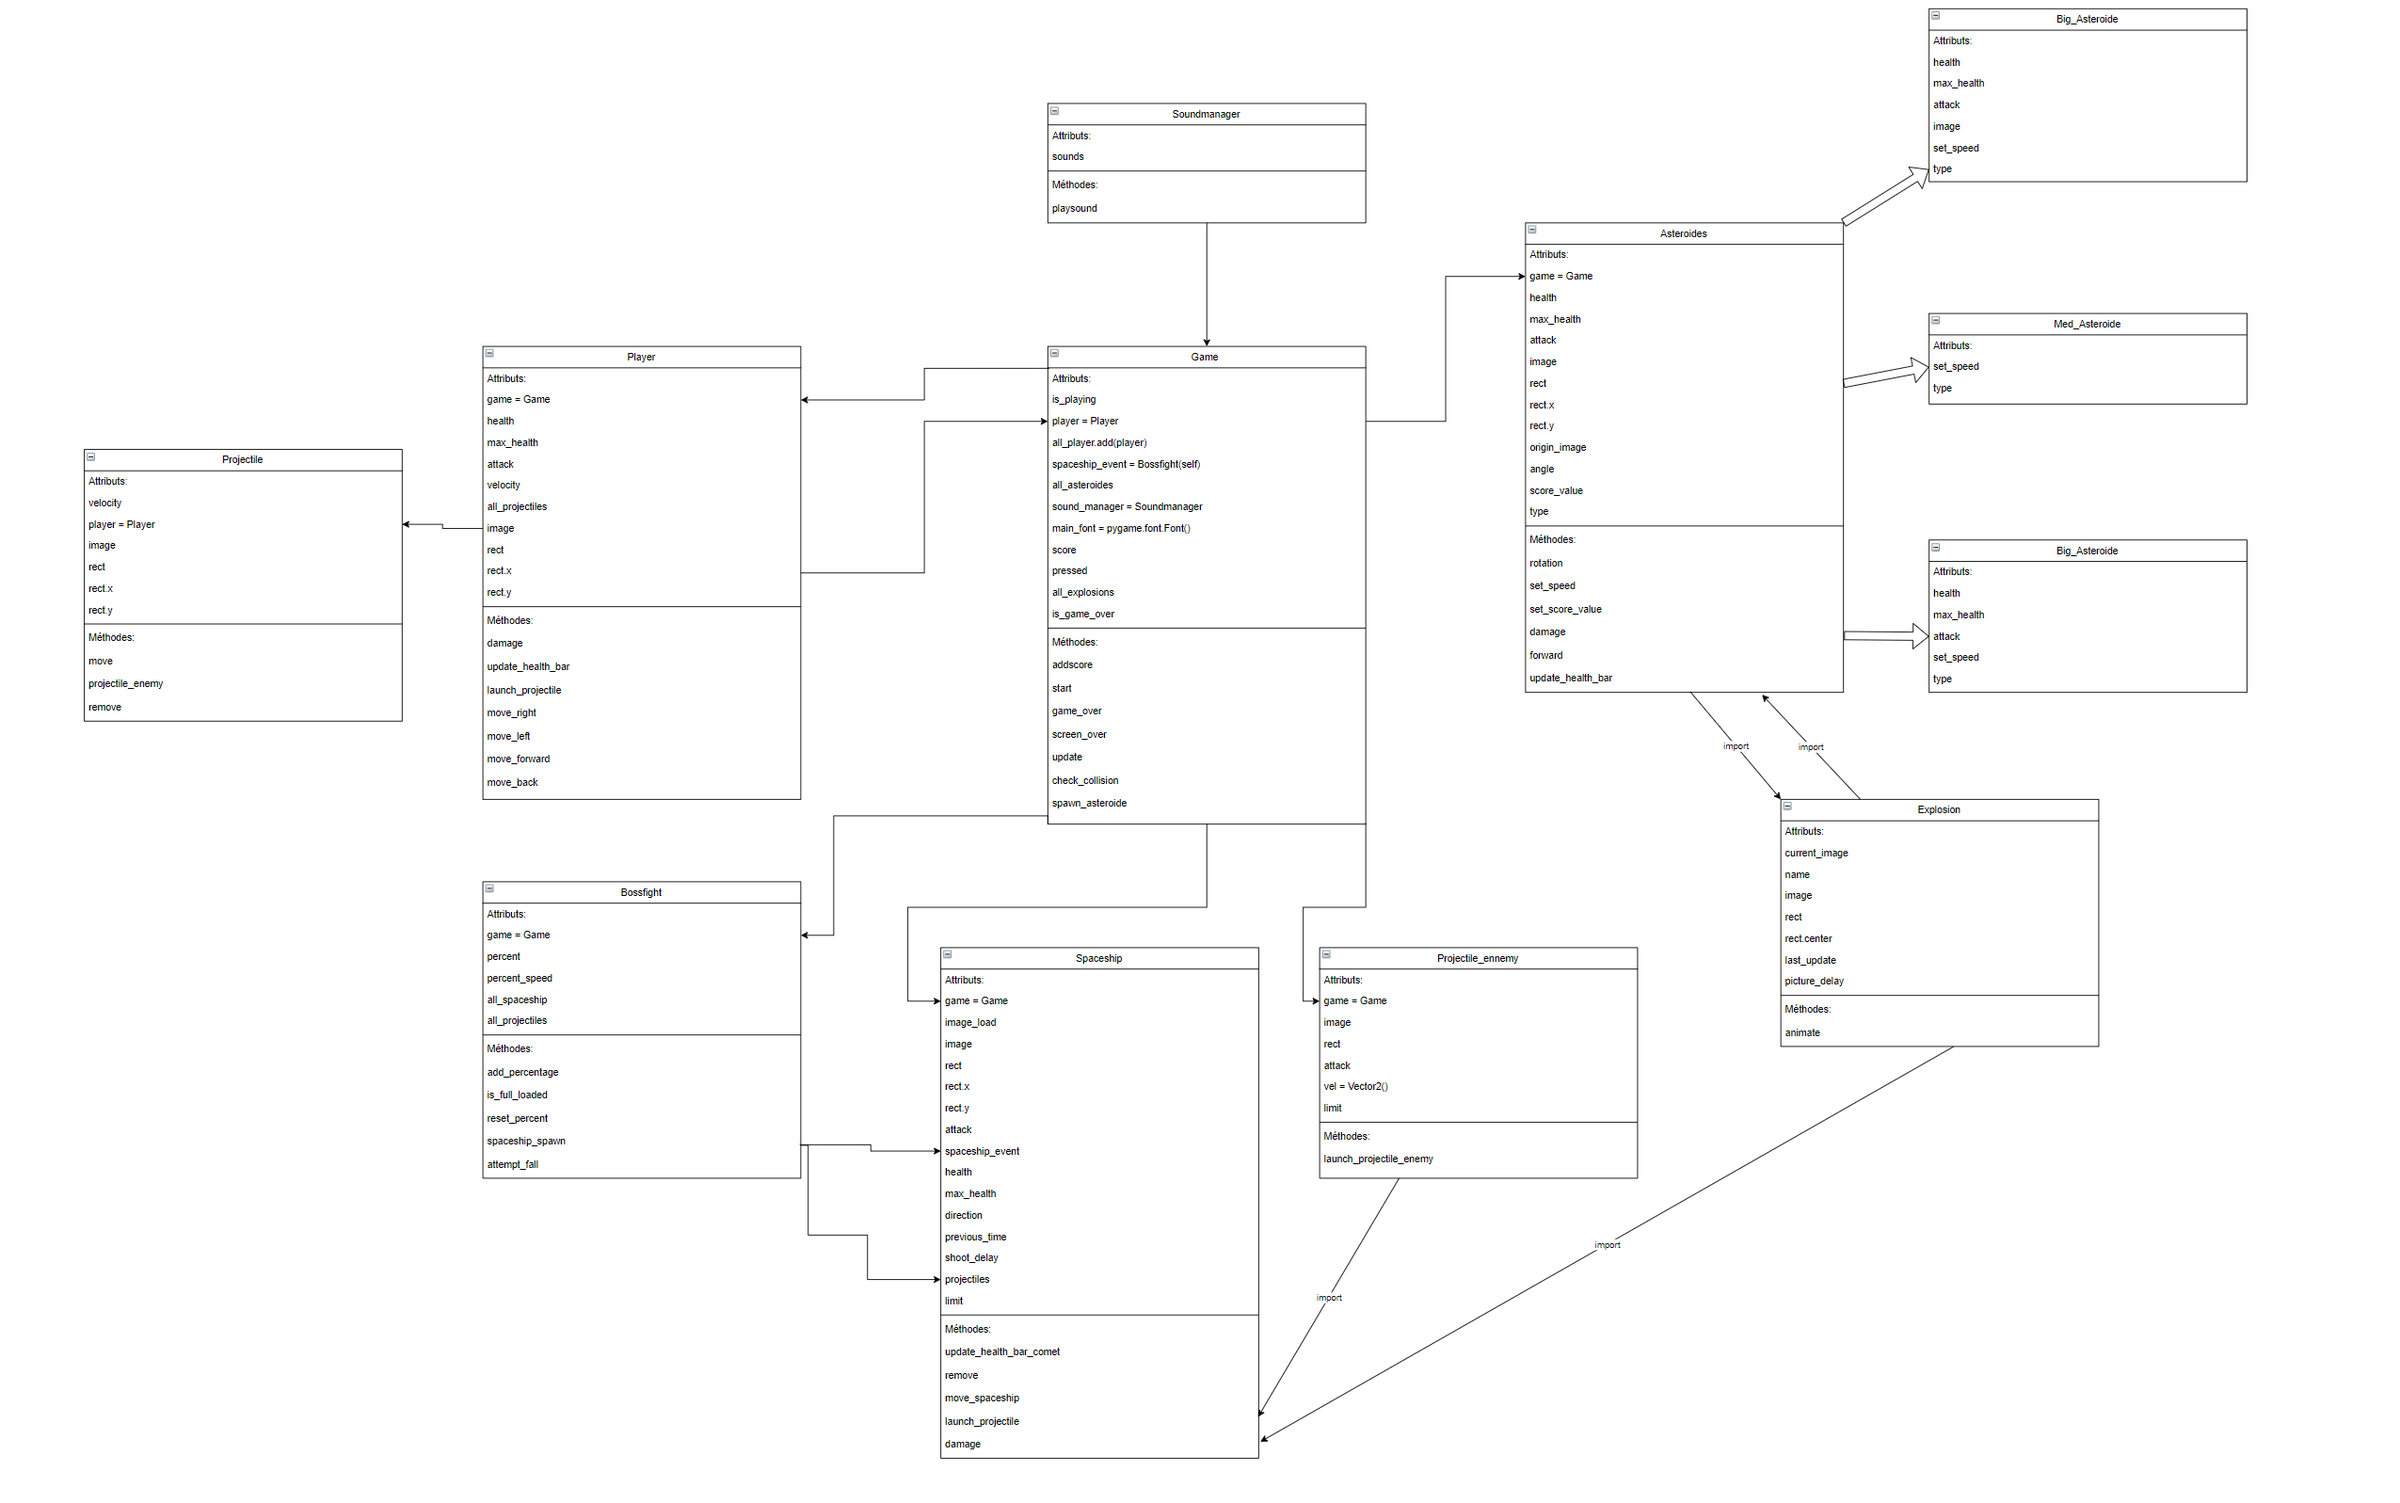
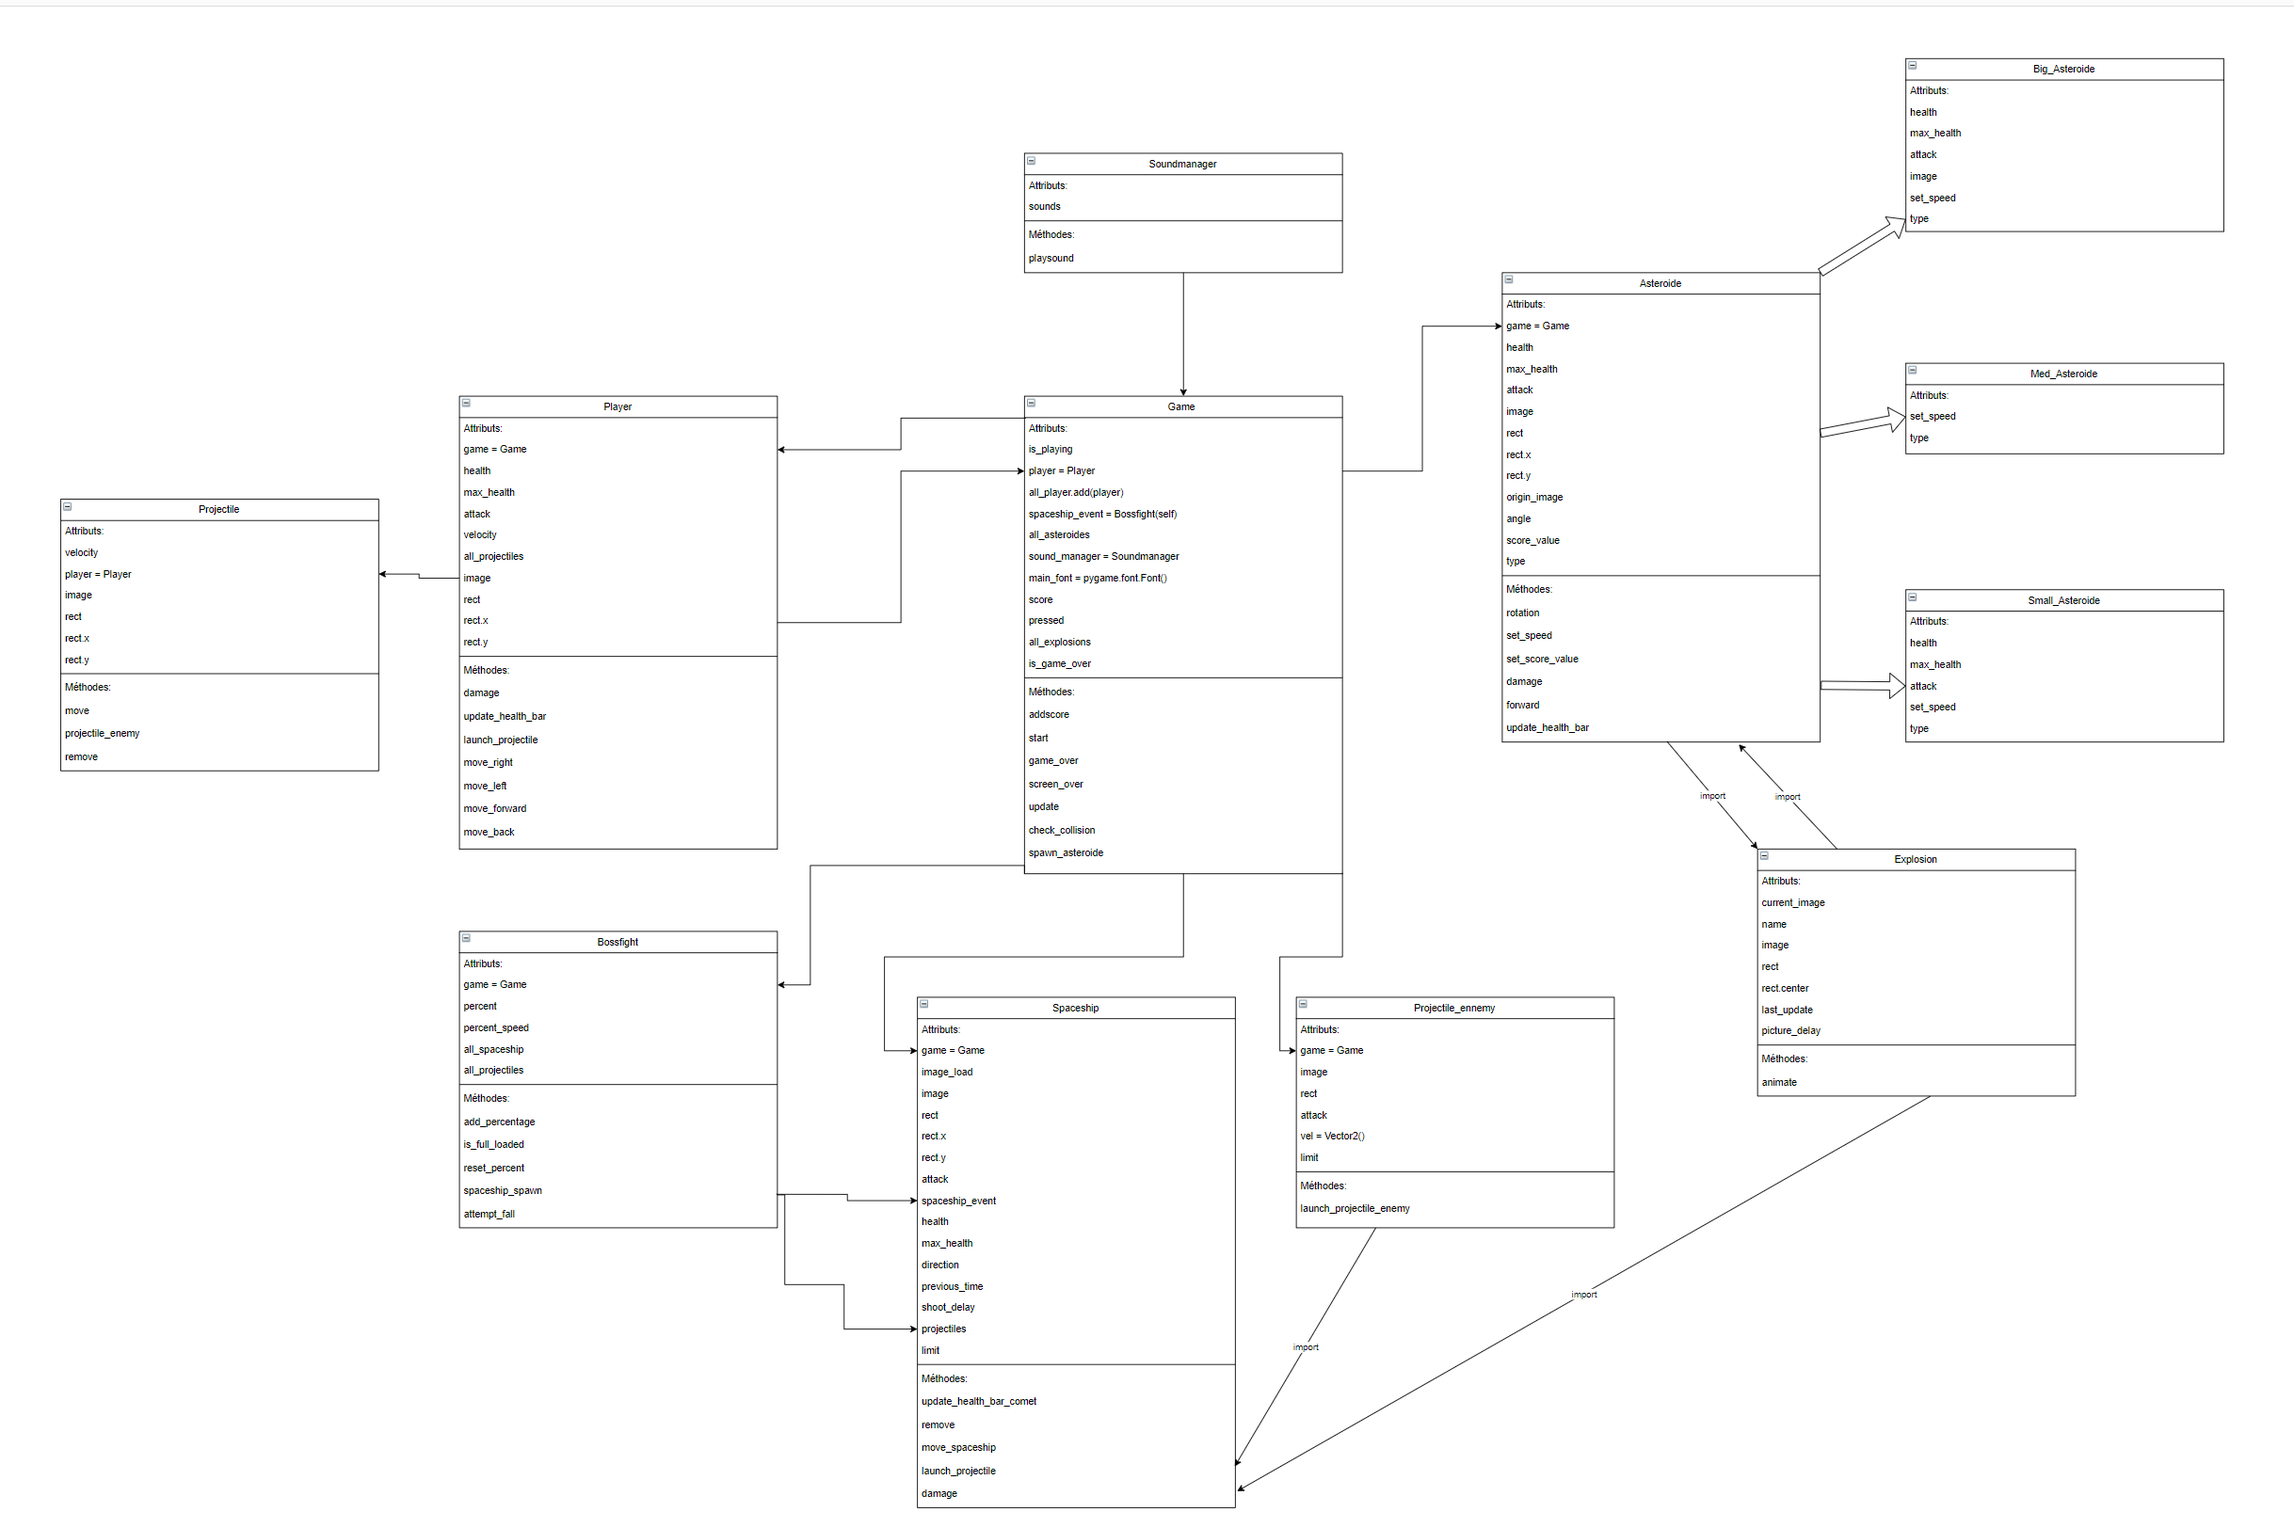
main

diff --git a/pygame/Game.py b/pygame/Game.py
@@ -60,7 +60,11 @@ class Game:
         self.player.rect.y = 500
         self.is_playing = False
         self.is_game_over = True
-
+        self.pressed = {}
+        self.all_explosions = pygame.sprite.Group()     
+        self.all_asteroides = pygame.sprite.Group()
+        self.spaceship_event = Bossfight(self)
+         
     def screen_over(self, screen):
         # bannière game over
         banner_over = pygame.image.load('img/game_over/game_over.png')
